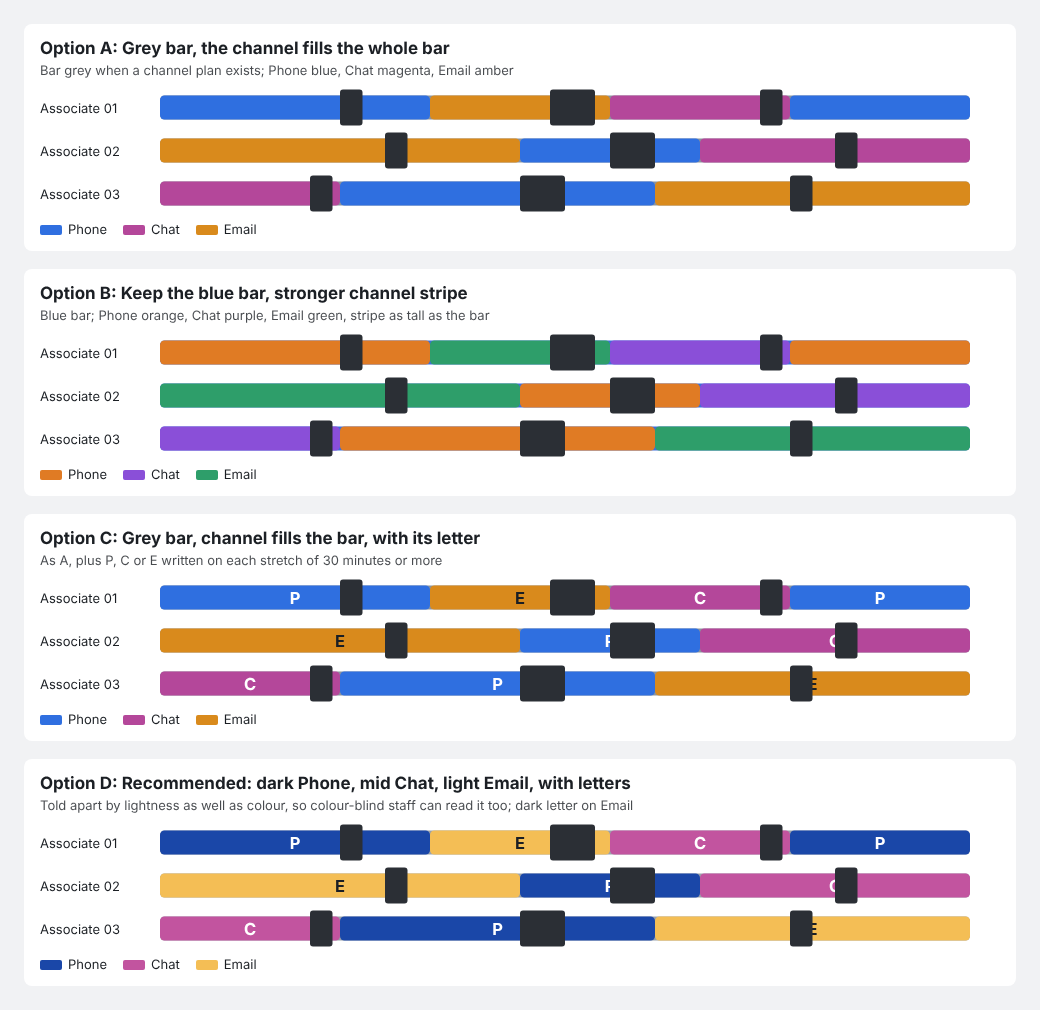
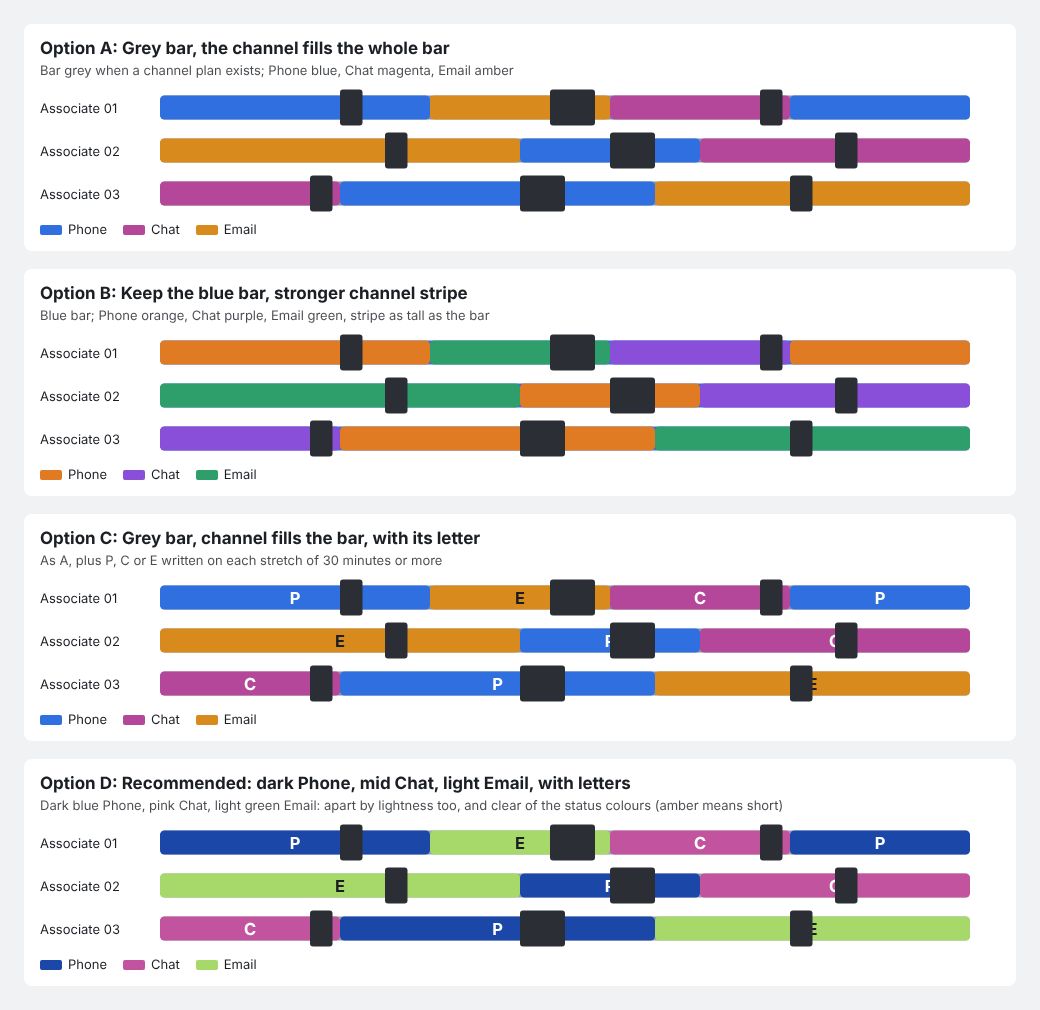
Phase AK: sample ak01 after the design skills; Email green, clear of the status amber
Claude-Session: https://claude.ai/code/session_012jkpuBfug5TnsMSqQWAuNe

diff --git a/evidence/phase_ak/samples/make.py b/evidence/phase_ak/samples/make.py
@@ -13,8 +13,8 @@ OPTS = {
     "C": ("Grey bar, channel fills the bar, with its letter", "As A, plus P, C or E written on each stretch of 30 minutes or more",
           {"bar": "#8A929C", "P": "#2F6FE0", "C": "#B4479A", "E": "#D98A1C"}, "letters"),
     "D": ("Recommended: dark Phone, mid Chat, light Email, with letters",
-          "Told apart by lightness as well as colour, so colour-blind staff can read it too; dark letter on Email",
-          {"bar": "#9AA1AA", "P": "#1A47A8", "C": "#C2549F", "E": "#F4BE55"}, "letters"),
+          "Dark blue Phone, pink Chat, light green Email: apart by lightness too, and clear of the status colours (amber means short)",
+          {"bar": "#9AA1AA", "P": "#1A47A8", "C": "#C2549F", "E": "#A6D96A"}, "letters"),
 }
 def svg(rows, c, mode):
     out = []

diff --git a/evidence/phase_ak/REQUESTS.md b/evidence/phase_ak/REQUESTS.md
@@ -21,7 +21,7 @@ so they can approve their requests"
 
 1. Colours (sample ak01, light and dark): A (grey bar, Phone blue, Chat magenta, Email amber), B (blue bar, Phone
    orange, Chat purple, Email green), C (as A with P, C, E written on longer stretches) or D (recommended: dark Phone
-   #1A47A8, mid Chat #C2549F, light Email #F4BE55, with letters)? Measured (better-colors): today Phone on the bar is
+   #1A47A8, mid Chat #C2549F, light green Email #A6D96A, with letters)? Measured (better-colors): today Phone on the bar is
    1.00:1 and the three channels 1.04 to 1.08:1 apart in lightness; B puts orange next to green (1.13:1, unreadable
    with red-green colour blindness); white letters on C's amber are 2.76:1. D: channels 2.0 to 4.9:1 apart, letters
    4.2:1 or more.
@@ -35,3 +35,16 @@ so they can approve their requests"
       supervisors too?
    d. An associate with no team manager assigned: any team manager of the program approves, as now?
    e. Shift swaps: approved by the team manager of the person who offered, or of both people?
+
+## Design skills run on sample ak01 (2026-10-15)
+
+- better-colors: contrast measured (see question 1).
+- frontend-design with `webapp/DESIGN.md`: amber means "Short", so an amber Email (options A, C and the first D)
+  breaks "colour means state"; D's Email moved to light green #A6D96A (hue 88, 52 degrees from Short's amber, 86 from
+  Covered's teal; Phone 221 and Chat 319 at least 27 and 44 degrees from any status hue).
+- ui-ux-pro-max: no palette match for this case; its rule "never colour alone" keeps the P, C, E letters and the
+  hover titles.
+- design-taste-frontend: dashboards are outside its scope; its colour-consistency and both-looks rules apply.
+- impeccable (context loaded, mode Operate): scanning first; B's orange sits next to the red and amber status hues.
+- design-md: the catalog is brand sites, no ops-dashboard match; Linear's pattern (category colours kept apart from
+  action and status colours) supports D.
